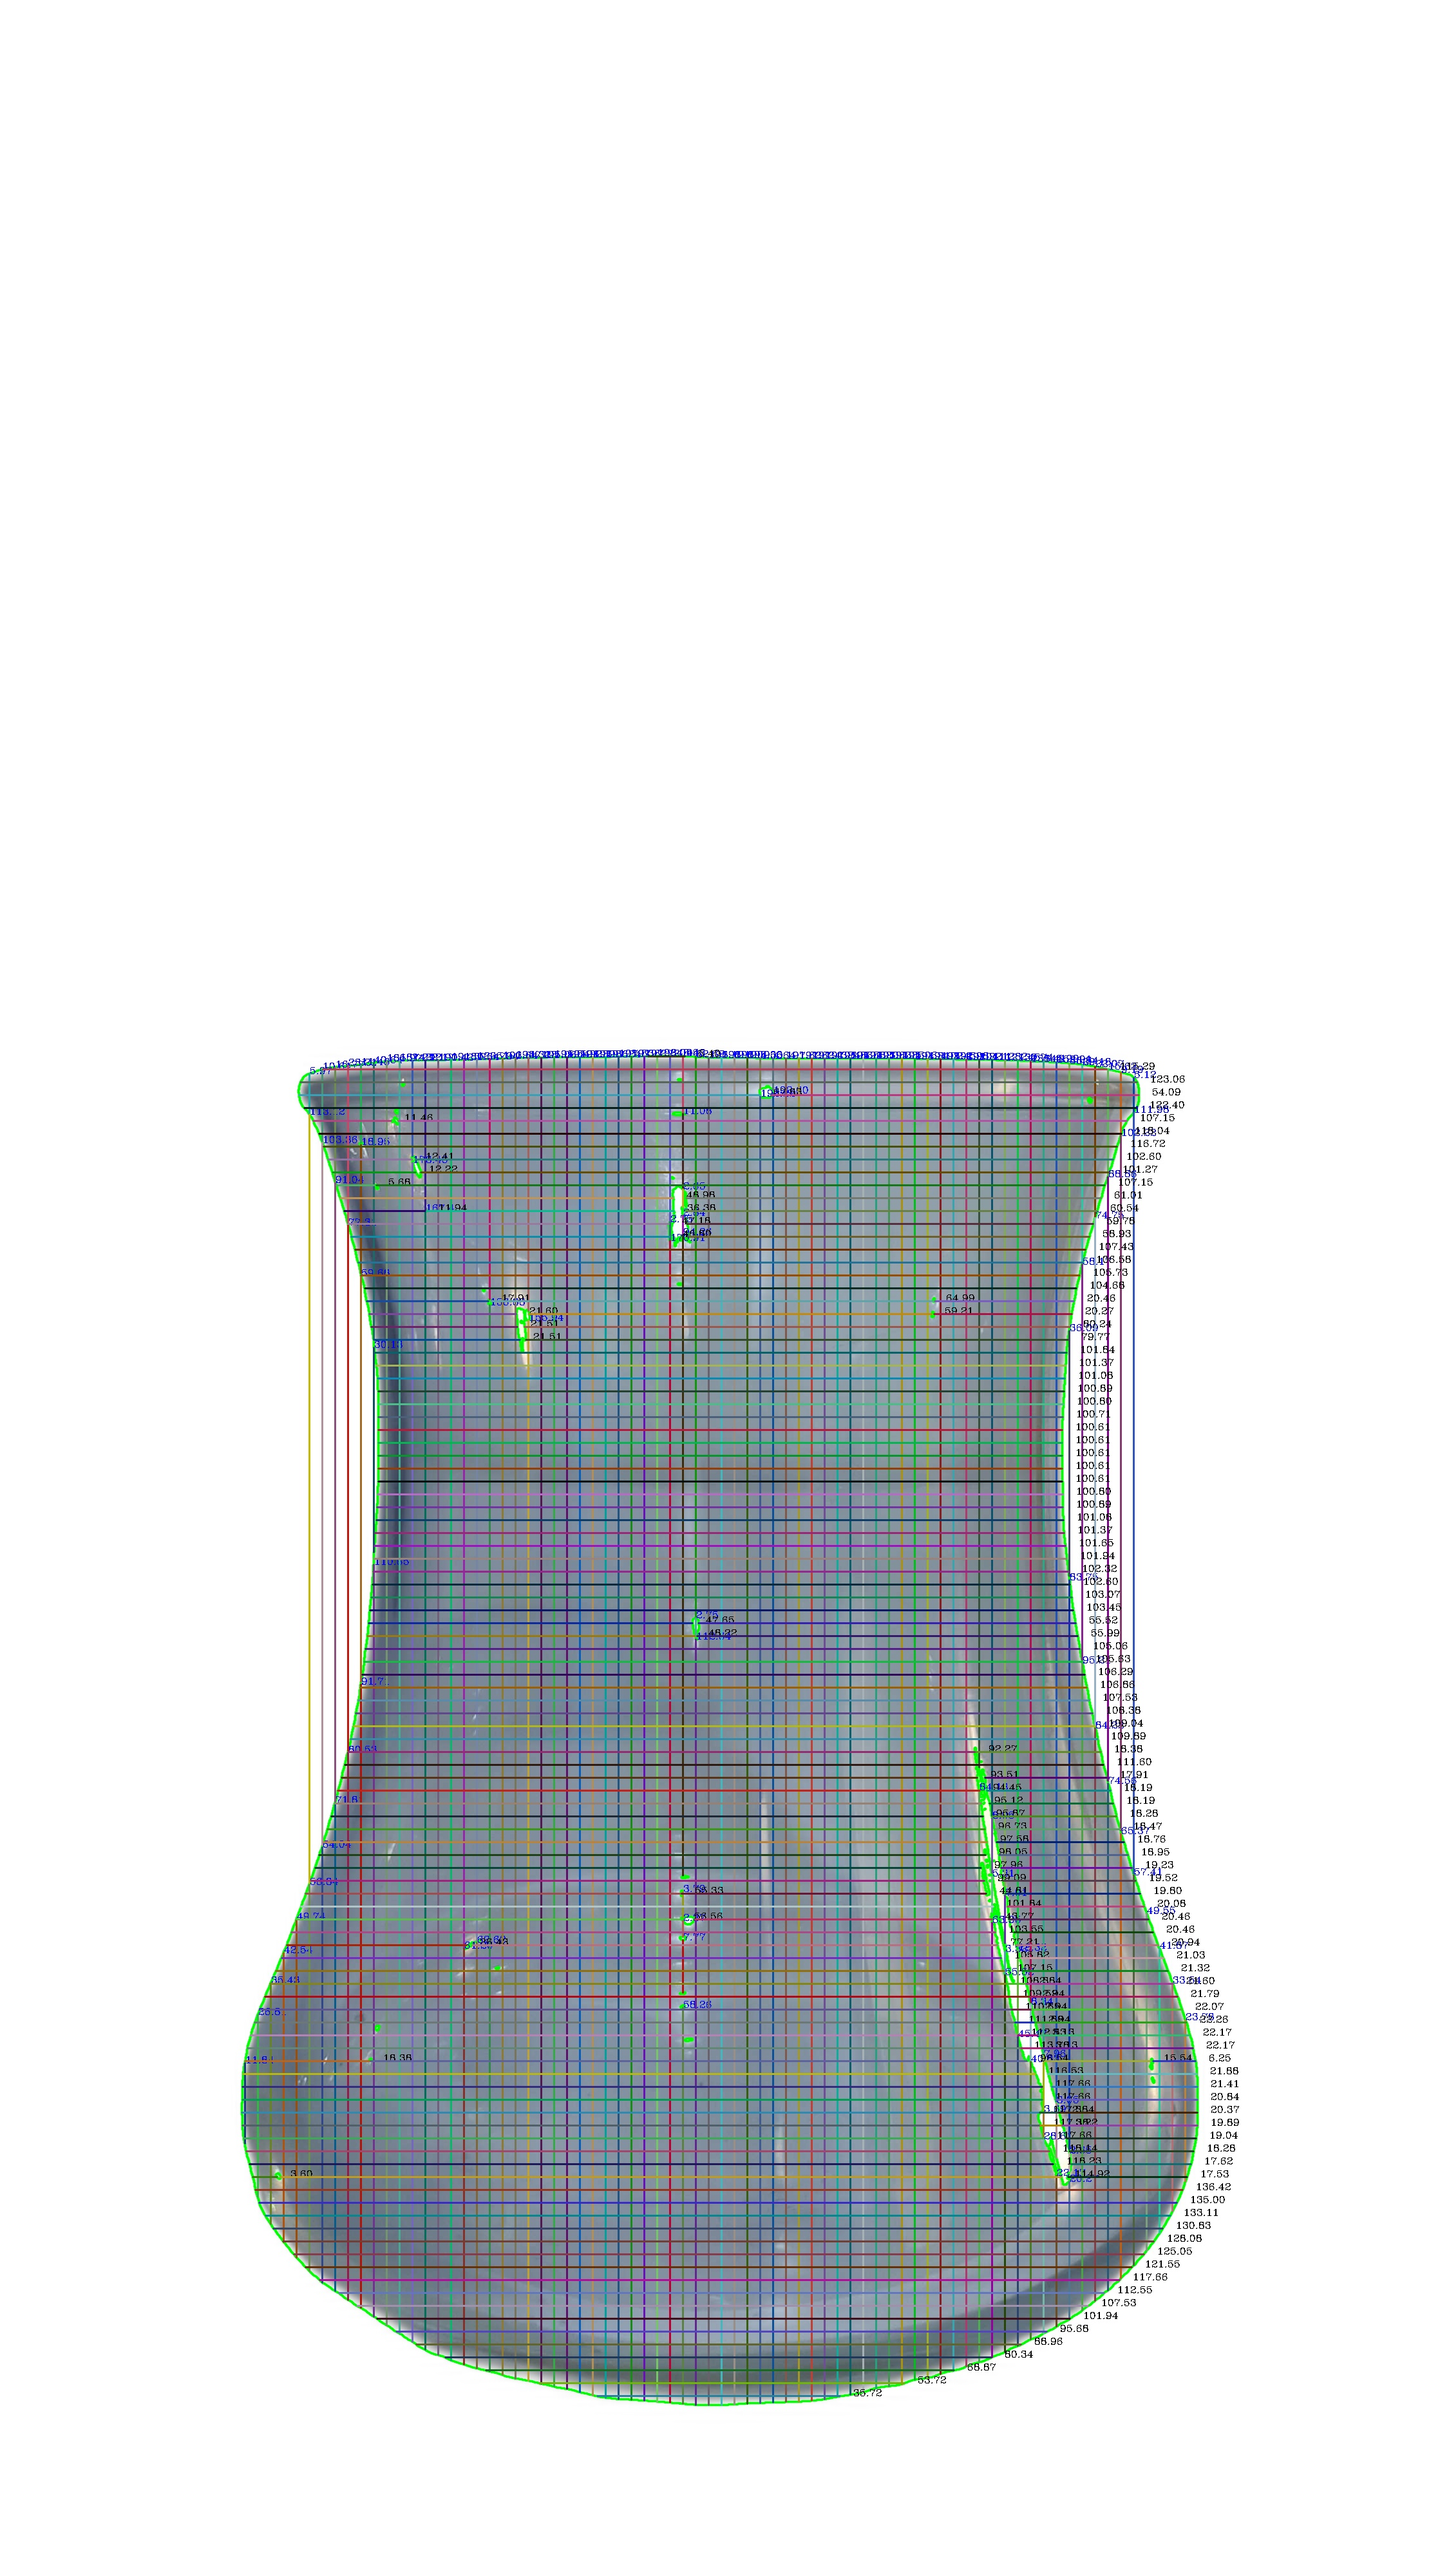
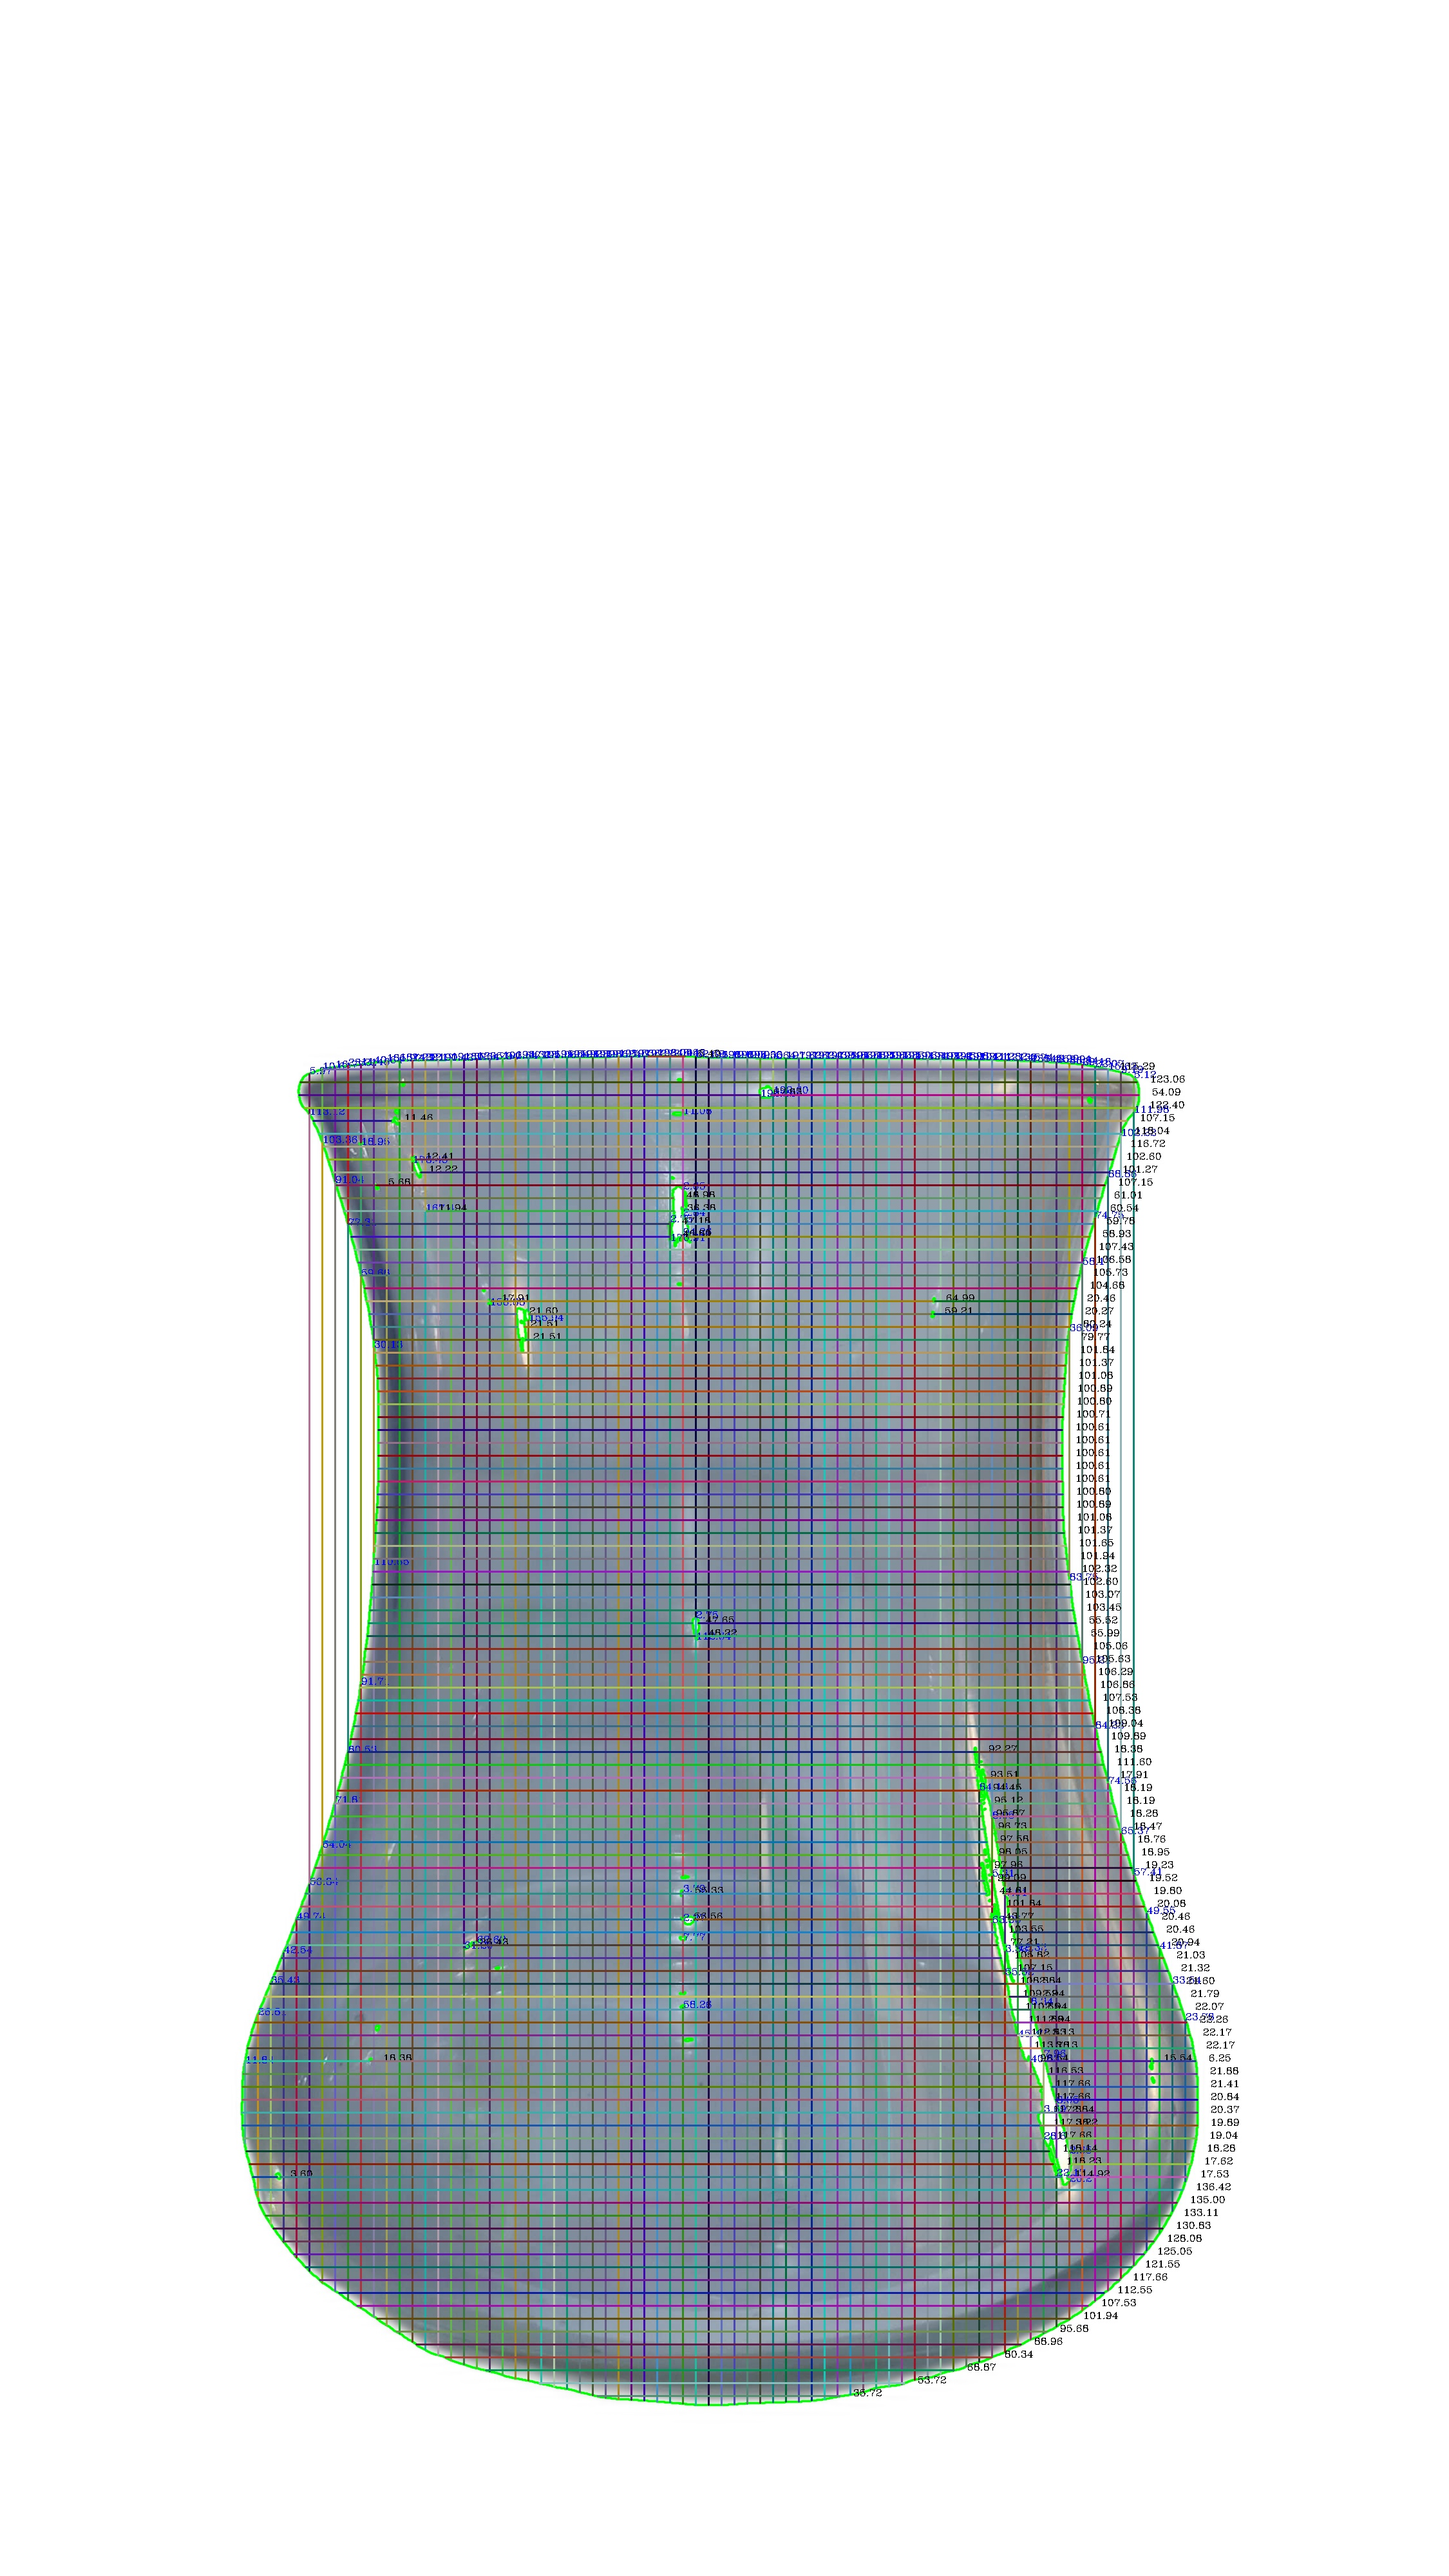
refactor

Changed region(s): [[0.1556, 0.4062, 0.84, 0.9375]]

diff --git a/Logic/ImageOperations/SpecifyIntersections.py b/Logic/ImageOperations/SpecifyIntersections.py
@@ -32,10 +32,11 @@ def get_horizontal_intersection_coords(coords, distinct_y_intersections):
     horizontal_intersection_coords = list()
     for j in distinct_y_intersections:
         distinct_y_coords = list()
-        for i in coords:
-            for k in i:
-                if i not in distinct_y_coords and k[0] == j:
-                    distinct_y_coords.append(k)
+        for i in range(len(coords)):
+            for k in range(len(coords[i])):
+                current_coordinate = [coords[i][k][0], coords[i][k][1]]
+                if current_coordinate not in distinct_y_coords and coords[i][k][0] == j:
+                    distinct_y_coords.append(current_coordinate)
             horizontal_intersection_coords.append(distinct_y_coords)
     return horizontal_intersection_coords
 
@@ -44,9 +45,10 @@ def get_vertical_intersection_coords(coords, distinct_x_intersections):
     vertical_intersection_coords = list()
     for j in distinct_x_intersections:
         distinct_x_coords = list()
-        for i in coords:
-            for k in i:
-                if i not in distinct_x_coords and k[1] == j:
-                    distinct_x_coords.append(k)
+        for i in range(len(coords)):
+            for k in range(len(coords[i])):
+                current_coordinate = [coords[i][k][0], coords[i][k][1]]
+                if current_coordinate not in distinct_x_coords and coords[i][k][1] == j:
+                    distinct_x_coords.append(current_coordinate)
             vertical_intersection_coords.append(distinct_x_coords)
     return vertical_intersection_coords

diff --git a/Logic/Utils/ListUtil.py b/Logic/Utils/ListUtil.py
@@ -7,3 +7,4 @@ def get_sub_lists(_list):
             sub_coordinates.append([x, y])
         unpacked_list.append(sub_coordinates)
     return unpacked_list
+
